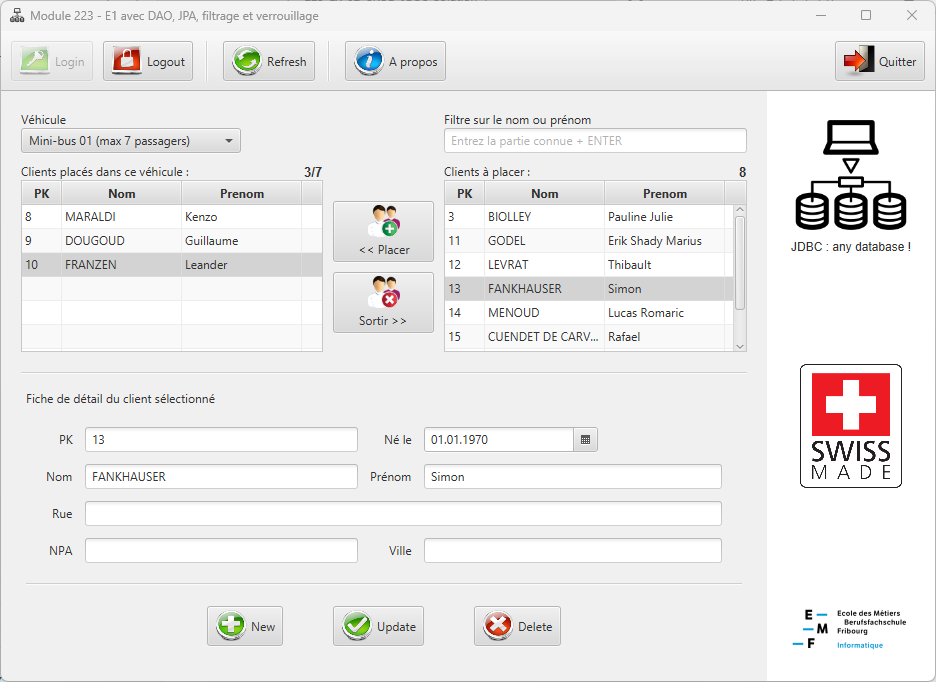
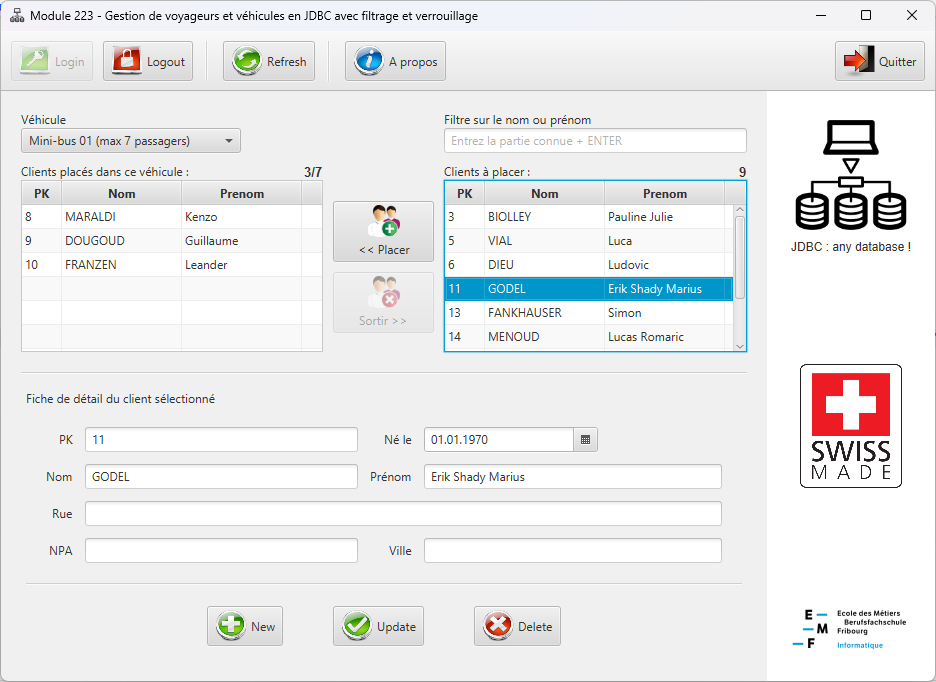
Version initiale

diff --git a/src/views/View.java b/src/views/View.java
@@ -123,7 +123,8 @@ public class View implements Initializable, IViewForController {
                 Parent root = (Parent) fxmlLoader.load();
                 principalScene = new Scene(root);
                 mainStage.setScene(principalScene);
-                mainStage.setTitle("Module 223 - E1 avec DAO, JPA, filtrage et verrouillage");
+                mainStage.setTitle(
+                        "Module 223 - Gestion de voyageurs et véhicules en JDBC avec filtrage et verrouillage");
                 mainStage.setMinWidth(950); // Pour limiter la taille min
                 mainStage.setMinHeight(680); // Pour limiter la taille min
                 mainStage.getIcons().add(new Image(getClass().getResourceAsStream("res/many-db-icon.png")));
